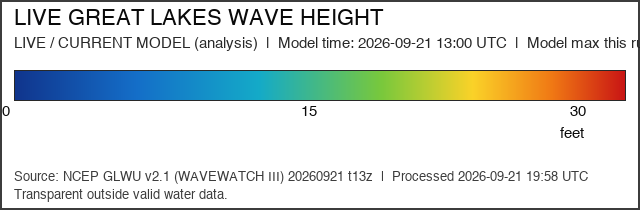
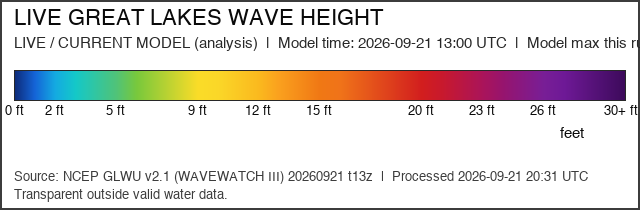
Wave height anchored continuous gradient (0-30+ ft spec anchors)

Changed region(s): [[0.0312, 0.3143, 1.0, 0.5714], [0.8125, 0.8, 0.875, 0.8571], [0.0, 0.4857, 0.0312, 0.5429]]

diff --git a/scripts/geospatial_utils.py b/scripts/geospatial_utils.py
@@ -204,11 +204,33 @@ def _lut(stops, n=256):
     return [_interp_stops(stops, i / (n - 1)) for i in range(n)]
 
 
-WAVE_STOPS = [  # calm deep blue -> cyan -> green -> yellow -> orange -> red
-    (0.00, (16, 52, 140)), (0.20, (20, 110, 200)), (0.40, (20, 170, 200)),
-    (0.60, (120, 200, 60)), (0.75, (250, 210, 40)), (0.88, (240, 120, 20)),
-    (1.00, (200, 20, 20)),
+WAVE_STOPS = [  # continuous anchor gradient, ft -> color (piecewise-linear).
+    # Anchors bunch toward low values, so each successive range gets
+    # progressively less color resolution (0-9 highest, 27-30+ compressed).
+    # Values above 30 ft clamp into the dark-purple extreme end.
+    (0.0 / 30, (13, 42, 120)),    # 0 dark blue
+    (1.0 / 30, (20, 100, 215)),   # 1 blue
+    (2.0 / 30, (20, 170, 225)),   # 2 blue -> cyan
+    (3.0 / 30, (20, 200, 200)),   # 3 cyan
+    (5.0 / 30, (80, 195, 120)),   # 5 cyan -> green
+    (6.0 / 30, (120, 200, 60)),   # 6 green
+    (9.0 / 30, (250, 220, 40)),   # 9 green -> yellow
+    (10.0 / 30, (250, 215, 40)),  # 10 yellow
+    (12.0 / 30, (250, 185, 30)),  # 12 yellow -> yellow-orange
+    (13.0 / 30, (250, 160, 30)),  # 13 yellow-orange -> orange
+    (15.0 / 30, (240, 120, 20)),  # 15 orange
+    (16.0 / 30, (240, 115, 25)),  # 16 orange
+    (20.0 / 30, (210, 30, 30)),   # 20 orange -> red
+    (21.0 / 30, (200, 25, 45)),   # 21 red
+    (23.0 / 30, (170, 20, 90)),   # 23 red -> red-violet
+    (24.0 / 30, (150, 20, 110)),  # 24 red-violet
+    (26.0 / 30, (120, 30, 150)),  # 26 red-violet -> violet
+    (27.0 / 30, (110, 25, 150)),  # 27 violet
+    (30.0 / 30, (60, 10, 90)),    # 30+ violet -> purple -> dark purple
 ]
+WAVE_TICKS = [(0, "0 ft"), (2, "2 ft"), (5, "5 ft"), (9, "9 ft"),
+              (12, "12 ft"), (15, "15 ft"), (20, "20 ft"), (23, "23 ft"),
+              (26, "26 ft"), (30, "30+ ft")]
 TEMP_STOPS = [  # cold blue -> cyan -> green -> yellow -> orange -> red
     (0.00, (30, 60, 180)), (0.25, (30, 150, 220)), (0.45, (60, 190, 150)),
     (0.60, (240, 220, 60)), (0.80, (240, 130, 30)), (1.00, (190, 30, 30)),
@@ -273,9 +295,11 @@ def _legend_font(size):
 
 
 def draw_legend(path, title, subtitle, unit_label, vmin, vmax, stops,
-                source_line, fmt="{:.0f}", transparent_note=None):
+                source_line, fmt="{:.0f}", transparent_note=None,
+                tick_labels=None):
     """Draw a standalone legend PNG (used by KML ScreenOverlay).
-    Returns (W, H)."""
+    Returns (W, H). tick_labels = optional [(value, label)] drawn at their
+    scale positions (used by the anchored wave gradient)."""
     W, H = LEGEND_W, LEGEND_H
     img = Image.new("RGBA", (W, H), (255, 255, 255, 235))
     d = ImageDraw.Draw(img)
@@ -288,10 +312,19 @@ def draw_legend(path, title, subtitle, unit_label, vmin, vmax, stops,
     for i, c in enumerate(lut):
         d.line([(bx + i, by), (bx + i, by + bh)], fill=c + (255,))
     d.rectangle([bx, by, bx + bw - 1, by + bh], outline=(40, 40, 40))
-    for frac, val in ((0.0, vmin), (0.5, (vmin + vmax) / 2), (1.0, vmax)):
-        x = bx + int(frac * (bw - 1))
-        d.text((min(max(x - 18, 2), W - 70), by + bh + 4),
-               fmt.format(val), font=f_body, fill=(10, 10, 10))
+    if tick_labels:
+        span = (vmax - vmin) or 1.0
+        for val, label in tick_labels:
+            frac = min(max((val - vmin) / span, 0.0), 1.0)
+            x = bx + int(frac * (bw - 1))
+            tw = d.textlength(label, font=f_small)
+            d.text((min(max(x - tw / 2, 2), W - tw - 2), by + bh + 4),
+                   label, font=f_small, fill=(10, 10, 10))
+    else:
+        for frac, val in ((0.0, vmin), (0.5, (vmin + vmax) / 2), (1.0, vmax)):
+            x = bx + int(frac * (bw - 1))
+            d.text((min(max(x - 18, 2), W - 70), by + bh + 4),
+                   fmt.format(val), font=f_body, fill=(10, 10, 10))
     d.text((bx + bw - 66, by + bh + 26), unit_label, font=f_body, fill=(10, 10, 10))
     d.text((14, H - 40), source_line, font=f_small, fill=(60, 60, 60))
     if transparent_note:

diff --git a/scripts/build_wave_height.py b/scripts/build_wave_height.py
@@ -21,10 +21,10 @@ sys.path.insert(0, os.path.dirname(os.path.abspath(__file__)))
 from build_kml import (assert_no_vector_geometry, build_kml,
                        description_html, legend_block,
                        refresh_kml_base_url)
-from geospatial_utils import (REPO_ROOT, SITE_DIR, base_metadata,
-                              download, fetch_buoy_obs, promote_stage,
-                              read_state, stage_dir, utcnow_iso,
-                              write_metadata, write_state)
+from geospatial_utils import (REPO_ROOT, SITE_DIR, WAVE_TICKS,
+                              base_metadata, download, fetch_buoy_obs,
+                              promote_stage, read_state, stage_dir,
+                              utcnow_iso, write_metadata, write_state)
 from render_gradient import render_field
 
 PRODUCT = "wave_height"
@@ -202,7 +202,7 @@ def _build(got, used_url, datestr, cycle, raw_path):
         source_line=(f"Source: NCEP GLWU v2.1 (WAVEWATCH III) {datestr} t{cycle}z  |  "
                      f"Processed {utcnow_iso()}"),
         unit_label="feet", transparent_value=None, fmt="{:.0f}",
-        splat_radius=2, product_dir=stage_prod)
+        splat_radius=2, product_dir=stage_prod, tick_labels=WAVE_TICKS)
 
     if int((rgba[:, :, 3] > 0).sum()) < 10_000:
         print(f"[{PRODUCT}] VALIDATION FAILED: raster has no water pixels.")
@@ -241,9 +241,12 @@ def _build(got, used_url, datestr, cycle, raw_path):
 
     np.savez_compressed(os.path.join(RAW_DIR, f"{PRODUCT}_field.npz"),
                         lats=lats, lons=lons, values=values_ft)
-    scale_html = (f"Wave height (feet): <b>0</b> calm (deep blue) → "
-                  f"<b>10</b> → <b>20</b> → <b>30</b> extreme (red). "
-                  f"Model maximum this run: <b>{run_max} ft</b>. "
+    scale_html = (f"Wave height (feet, one continuous gradient): <b>0</b> dark "
+                  f"blue → <b>2</b> blue/cyan → <b>5</b> cyan/green → <b>9</b> "
+                  f"green/yellow → <b>12–15</b> yellow-orange → orange → "
+                  f"<b>20</b> red → <b>23–26</b> red-violet → violet → "
+                  f"<b>30+</b> dark purple extreme. Model maximum this run: "
+                  f"<b>{run_max} ft</b>. Values above 30 ft stay dark purple. "
                   f"Significant height = average of highest third of waves.")
     meta["legend_scale_html"] = scale_html
     write_metadata(stage_prod, meta)  # re-write incl. buoy QC + legend text

diff --git a/scripts/render_gradient.py b/scripts/render_gradient.py
@@ -30,7 +30,7 @@ RENDER_SPECS = {
 
 def render_field(product, lats, lons, values_display, vmin, vmax, meta_extra,
                  title, subtitle, source_line, unit_label, transparent_value,
-                 fmt, splat_radius=1, product_dir=None):
+                 fmt, splat_radius=1, product_dir=None, tick_labels=None):
     bounds = load_bounds()
     rows, cols, valid = canvas_indices(lats, lons, bounds)
     field, counts = bin_to_canvas(
@@ -46,7 +46,7 @@ def render_field(product, lats, lons, values_display, vmin, vmax, meta_extra,
     save_png(rgba, os.path.join(product_dir, "current.png"))
     draw_legend(os.path.join(product_dir, "legend.png"), title, subtitle,
                 unit_label, vmin, vmax, spec["stops"], source_line,
-                fmt=fmt,
+                fmt=fmt, tick_labels=tick_labels,
                 transparent_note="Transparent outside valid water data.")
     meta = dict(meta_extra)
     meta["color_scale_min"] = vmin
@@ -75,7 +75,8 @@ def main():
                  m["vmin"], m["vmax"], m["meta_extra"], m["title"],
                  m["subtitle"], m["source_line"], m["unit_label"],
                  m.get("transparent_value"), m.get("fmt", "{:.0f}"),
-                 m.get("splat_radius", 1), product_dir=args.out_dir)
+                 m.get("splat_radius", 1), product_dir=args.out_dir,
+                 tick_labels=m.get("tick_labels"))
     print(f"re-rendered {args.product} from {args.from_cache}")
 
 
